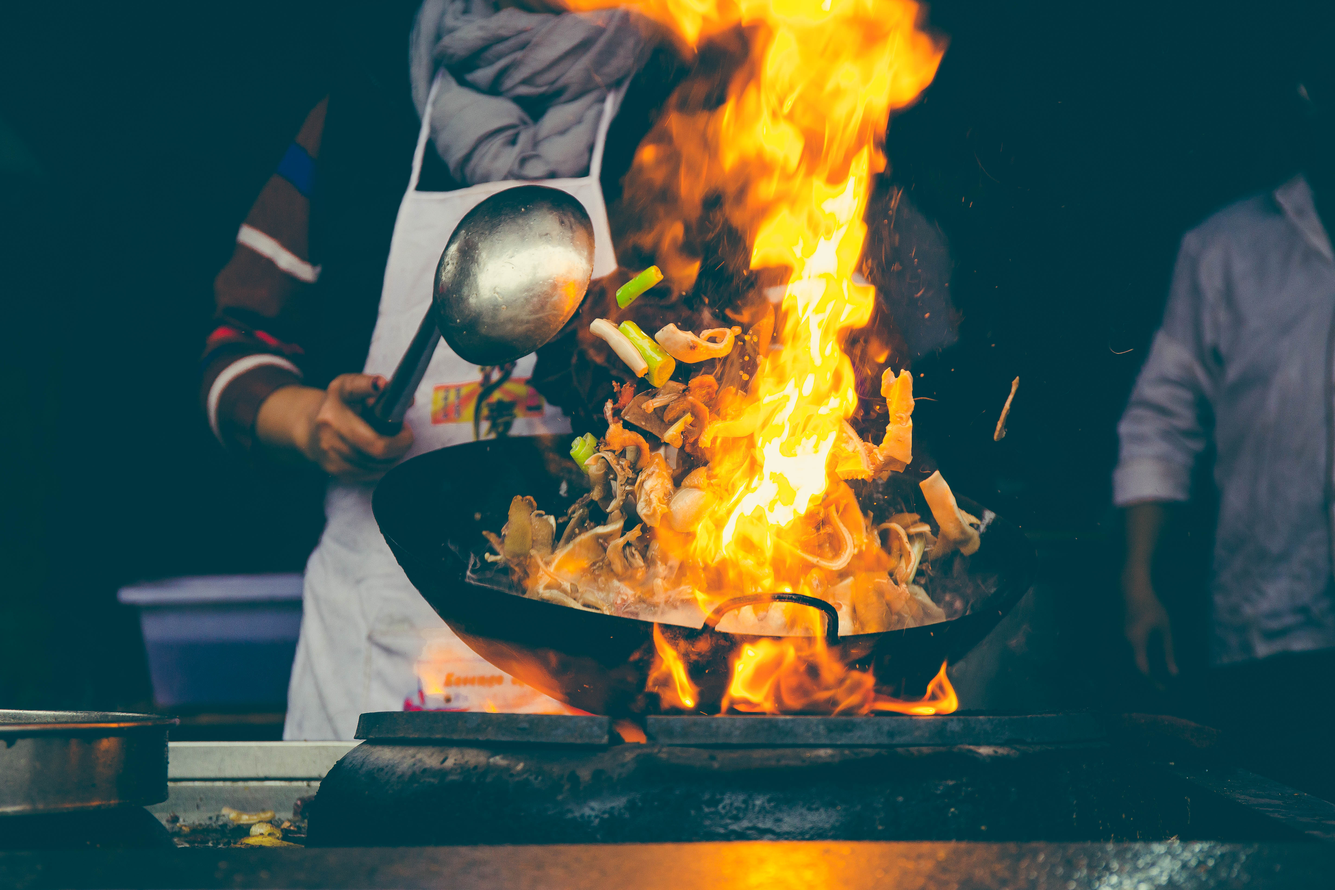
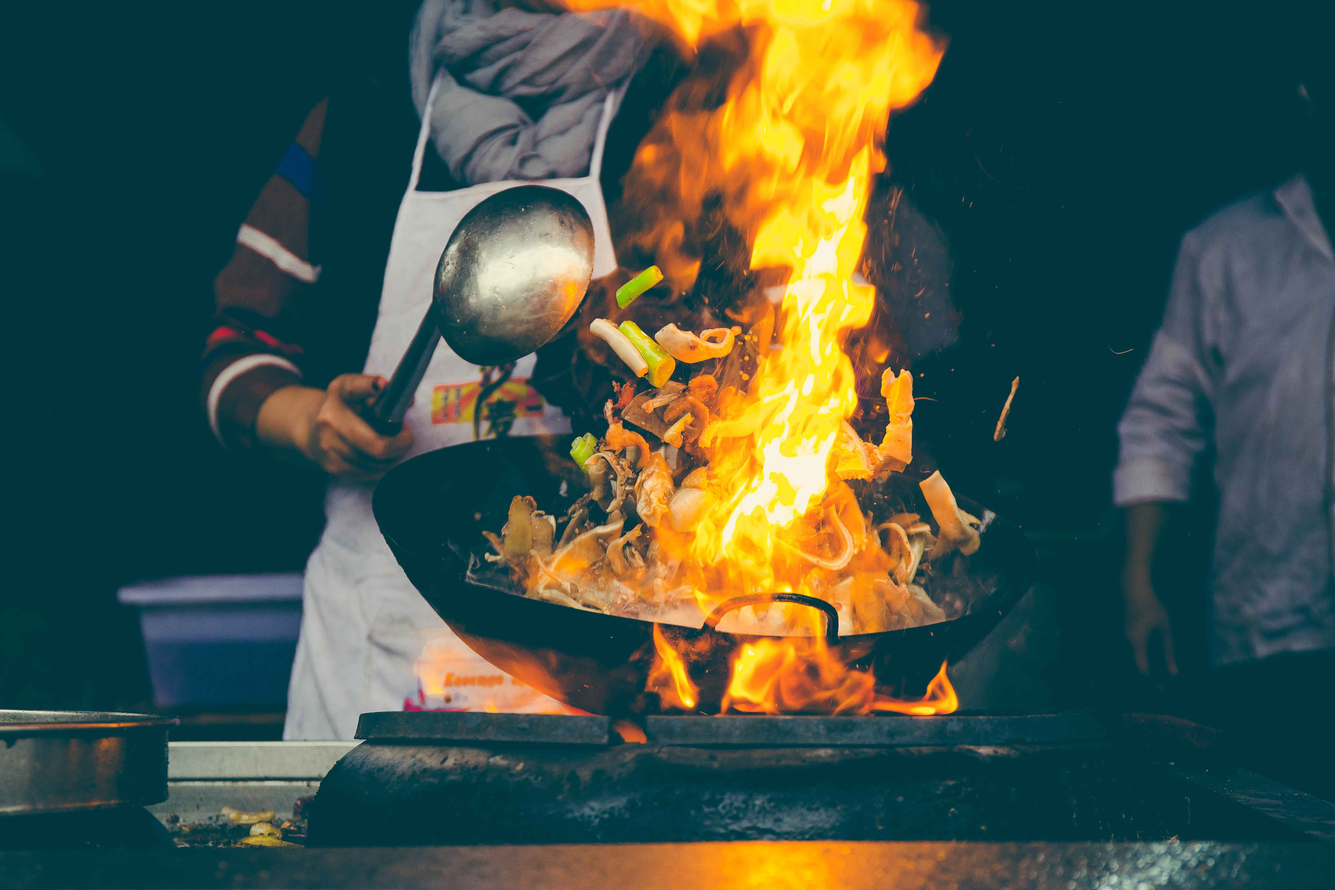
img压缩

diff --git a/wenxian/About.html b/wenxian/About.html
@@ -3,7 +3,7 @@
 <head>
 	<meta charset="UTF-8">
 	<meat name="viewport" content="width=device-width,initial-scale=2,maximum-scale=3,user-scalable=no">
-	<title>温鲜私家厨房</title>
+	<title>关于我们</title>
 	<link rel="stylesheet" href="./css/style.css">
 	<link rel="stylesheet" type="text/css" href="css/swiper.css">
 	<link rel="stylesheet" href="https://unpkg.com/element-ui/lib/theme-chalk/index.css">
